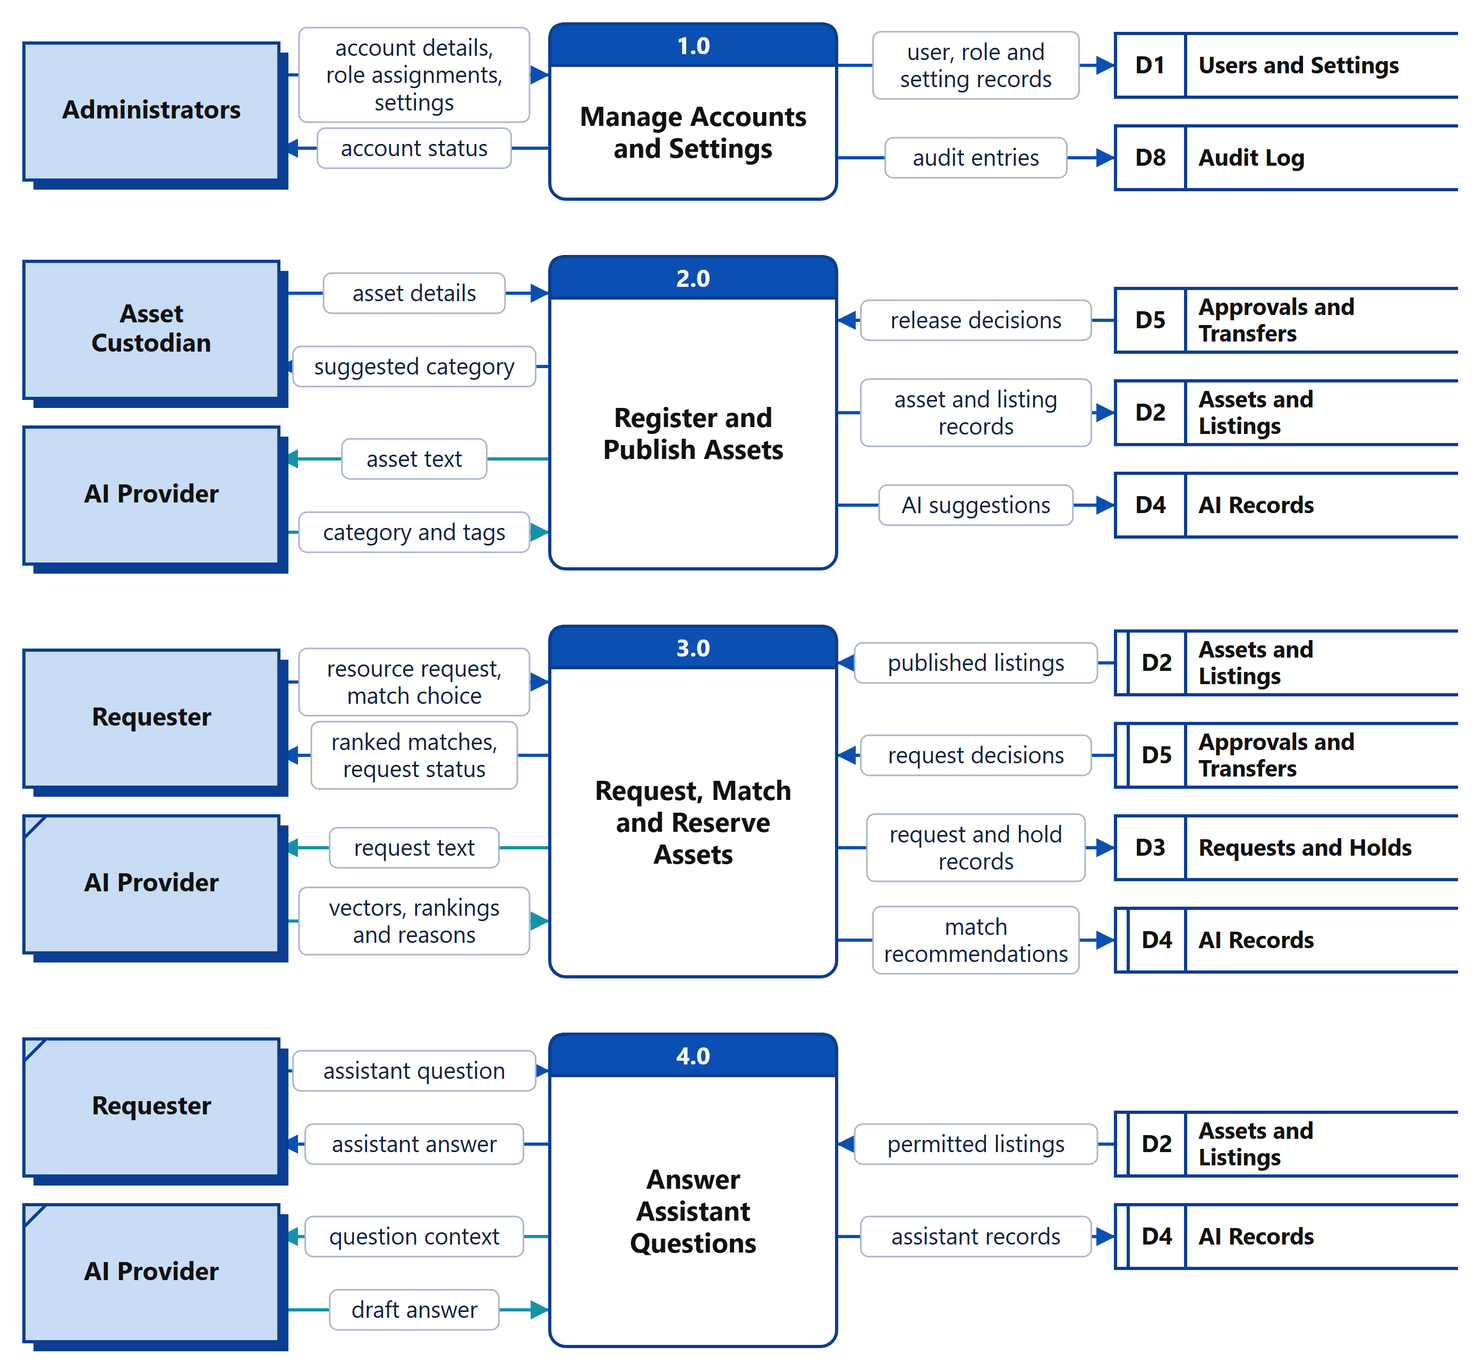
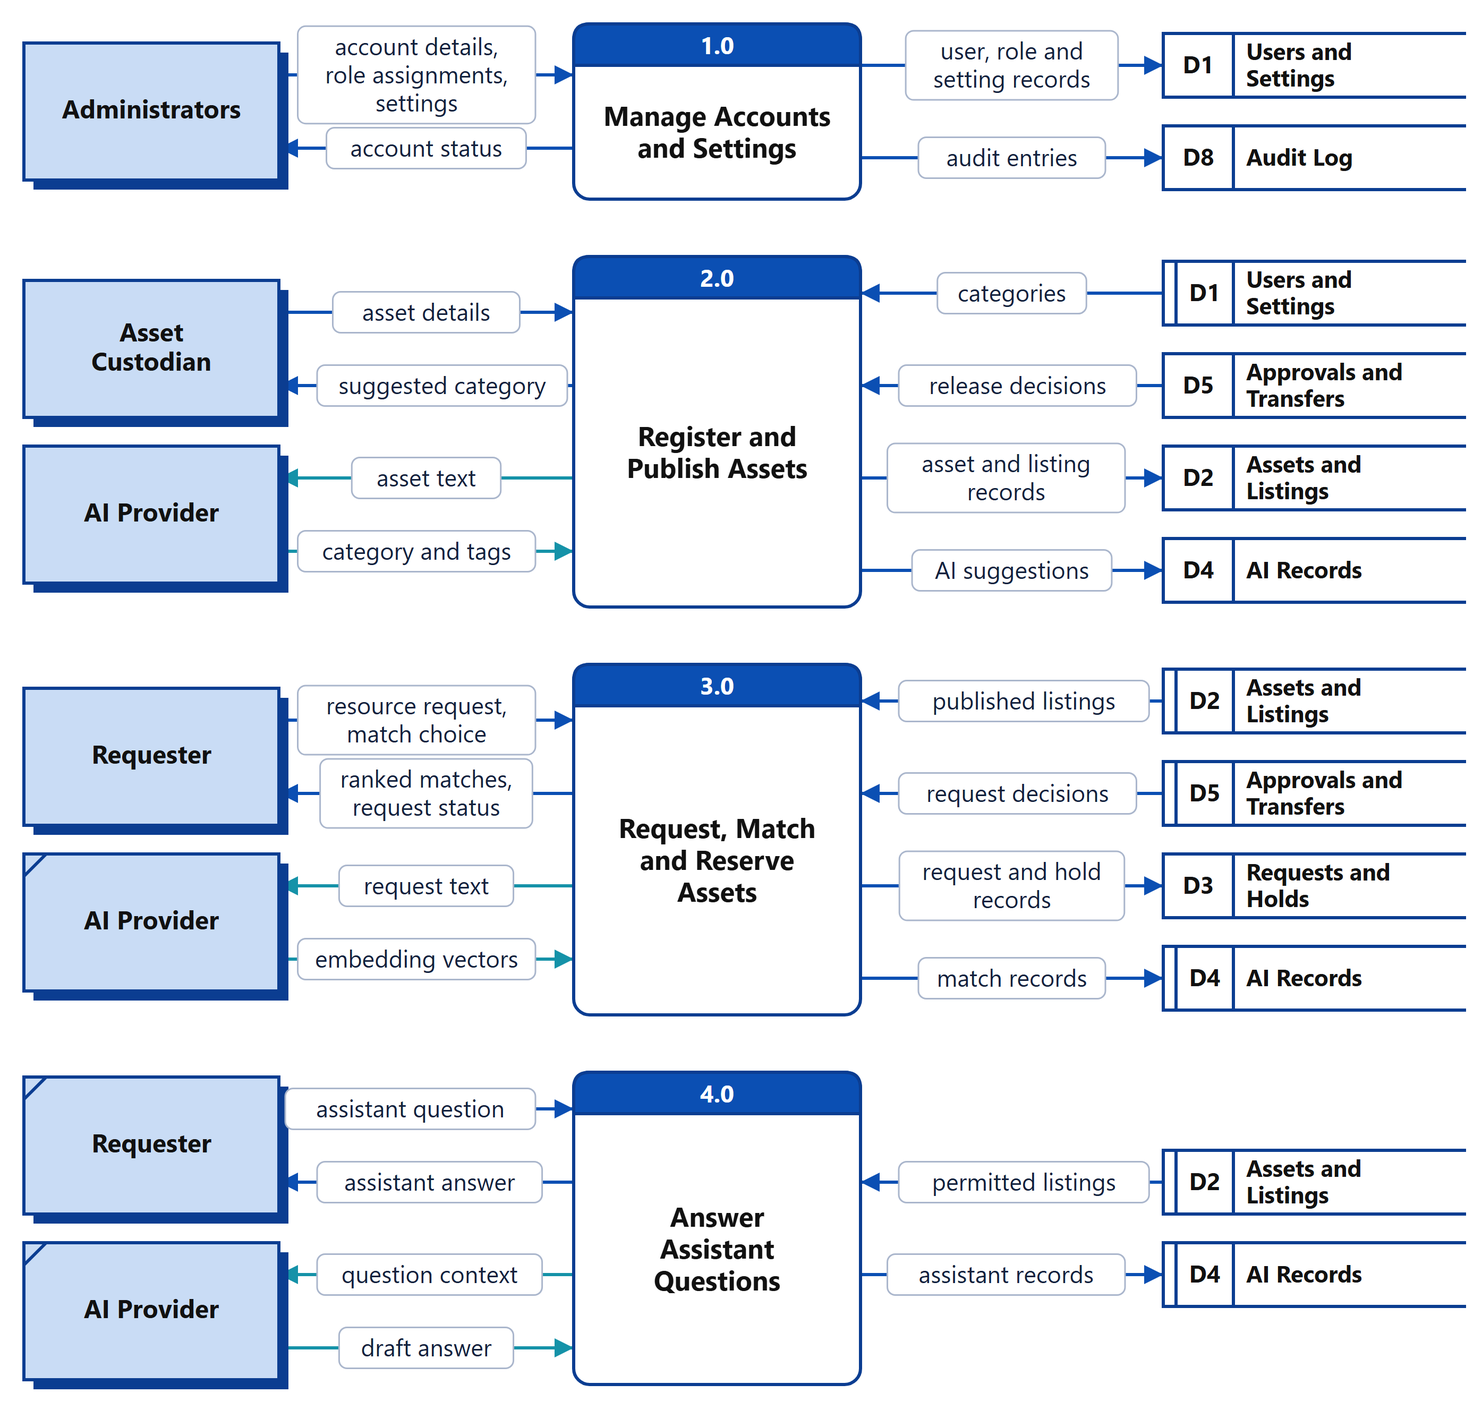
docs(phase45): keep DFD arrowheads visible and add the missing reads and writes (sections 1 and 2)

diff --git a/docs/phase45/diagrams/dfd.js b/docs/phase45/diagrams/dfd.js
@@ -34,12 +34,12 @@ function external(name, x, y, w, h, opts = {}) {
   s += `<rect x="${x}" y="${y}" width="${w}" height="${h}" fill="${FILL}" stroke="${DARK}" stroke-width="2"/>`;
   if (opts.dup) s += `<line x1="${x}" y1="${y + 14}" x2="${x + 14}" y2="${y}" stroke="${DARK}" stroke-width="2"/>`;
   const main = wrap(name, w - 18, size, true);
-  const sub = opts.sub ? wrap(opts.sub, w - 14, 13) : [];
-  const lhM = size * 1.15, lhS = 13 * 1.2;
+  const sub = opts.sub ? wrap(opts.sub, w - 14, 14) : [];
+  const lhM = size * 1.15, lhS = 14 * 1.2;
   const total = main.length * lhM + sub.length * lhS;
   let yy = y + h / 2 - total / 2 + size * 0.85;
   main.forEach((l) => { s += `<text x="${x + w / 2}" y="${yy}" text-anchor="middle" font-family="${FONT}" font-size="${size}" font-weight="700" fill="#111">${esc(l)}</text>`; yy += lhM; });
-  sub.forEach((l) => { s += `<text x="${x + w / 2}" y="${yy - 2}" text-anchor="middle" font-family="${FONT}" font-size="13" fill="#333">${esc(l)}</text>`; yy += lhS; });
+  sub.forEach((l) => { s += `<text x="${x + w / 2}" y="${yy - 2}" text-anchor="middle" font-family="${FONT}" font-size="14" fill="#333">${esc(l)}</text>`; yy += lhS; });
   return s;
 }
 
@@ -71,12 +71,31 @@ function arrowHead(p1, p2, color) {
   return `<path d="M${p2.x} ${p2.y} L${bx + W * Math.sin(a)} ${by - W * Math.cos(a)} L${bx - W * Math.sin(a)} ${by + W * Math.cos(a)} Z" fill="${color}"/>`;
 }
 
-function pill(label, cx, cy, maxW, size) {
+function pillSize(label, maxW, size) {
   const lines = wrap(label, maxW - 12, size);
   const w = Math.min(maxW, Math.max(...lines.map((l) => l.length)) * size * 0.53 + 14);
-  const h = lines.length * size * 1.18 + 8;
+  return { lines, w, h: lines.length * size * 1.18 + 8 };
+}
+function pill(label, cx, cy, maxW, size) {
+  const { lines, w, h } = pillSize(label, maxW, size);
   let s = `<rect x="${cx - w / 2}" y="${cy - h / 2}" width="${w}" height="${h}" rx="5" fill="#fff" stroke="#aab6cc" stroke-width="1"/>`;
   return s + textBlock(lines, cx, cy, size, { color: "#13213d" });
+}
+
+// A label on the last segment of a flow is moved back from the tip so the arrowhead always shows.
+const CLEAR = 24;
+function clearOfArrow(points, at, maxW, size, label) {
+  const a = points[points.length - 2], b = points[points.length - 1];
+  const horiz = a.y === b.y;
+  const along = horiz ? at.x : at.y, start = horiz ? a.x : a.y, tip = horiz ? b.x : b.y;
+  const across = horiz ? at.y - a.y : at.x - a.x;
+  if (Math.abs(across) > 1 || (along - start) * (along - tip) > 0) return { at, maxW };
+  const dir = Math.sign(tip - start), room = Math.abs(tip - start) - CLEAR - 4;
+  if (horiz) maxW = Math.min(maxW, room);
+  const half = (horiz ? pillSize(label, maxW, size).w : pillSize(label, maxW, size).h) / 2;
+  const limit = tip - dir * (CLEAR + half);
+  const moved = dir * (along - limit) > 0 ? limit : along;
+  return { at: horiz ? { x: moved, y: at.y } : { x: at.x, y: moved }, maxW };
 }
 
 // A diagram collects lines, boxes and labels separately so labels are always drawn on top.
@@ -94,7 +113,9 @@ class Diagram {
         const t = opts.t === undefined ? 0.5 : opts.t;
         at = { x: points[0].x + (points[1].x - points[0].x) * t, y: points[0].y + (points[1].y - points[0].y) * t };
       }
-      this.labels += pill(label, at.x, at.y, opts.labelW || 160, opts.size || 14.5);
+      const size = opts.size || 15;
+      const fit = clearOfArrow(points, at, opts.labelW || 160, size, label);
+      this.labels += pill(label, fit.at.x, fit.at.y, fit.maxW, size);
     }
   }
   add(svg) { this.boxes += svg; }
@@ -116,11 +137,11 @@ const D = {
 {
   const g = new Diagram();
   const P = { x: 385, y: 30, w: 165, h: 480 };
-  const L = { x: 15, w: 180 }, Rt = { x: 745, w: 180 };
+  const L = { x: 15, w: 165 }, Rt = { x: 755, w: 165 };
   const slot = 72, gapY = 22;
   const left = [
     { name: "Requester", flows: [["in", "resource request, match choice, assistant question"], ["out", "ranked matches, request status, assistant answer"]] },
-    { name: "Asset Custodian", flows: [["in", "asset details, handover records, defect and end-of-life reports"], ["out", "suggested category, transfer tasks, asset history"]] },
+    { name: "Asset Custodian", sub: "or department representative", flows: [["in", "asset details, handover records, defect and end-of-life reports"], ["out", "suggested category, transfer tasks, asset history"]] },
     { name: "Maintenance Staff", flows: [["in", "inspection and repair records"], ["out", "work orders"]] },
   ];
   const right = [
@@ -153,7 +174,7 @@ const D = {
 // ---------- Level 1 rows ----------
 // Each row: external entities on the left, the process in the middle, data stores on the right.
 // Every arrow is a straight horizontal line, so rows never cross each other.
-const ROW = { extX: 15, extW: 160, procX: 345, procW: 180, storeX: 700, storeW: 215, slot: 46 };
+const ROW = { extX: 15, extW: 160, procX: 360, procW: 180, storeX: 730, storeW: 190, slot: 46 };
 
 function drawRow(g, row, y0, seen) {
   const gap = 12;
@@ -211,10 +232,10 @@ level1("dfd-level1-a.svg", [
     right: [st("D1", [Wr("user, role and setting records")]), st("D8", [Wr("audit entries")])] },
   { num: "2.0", name: "Register and Publish Assets",
     left: [{ name: "Asset Custodian", flows: [In("asset details"), Out("suggested category")] }, { name: AI, flows: [Out("asset text"), In("category and tags")] }],
-    right: [st("D5", [R("release decisions")]), st("D2", [Wr("asset and listing records")]), st("D4", [Wr("AI suggestions")])] },
+    right: [st("D1", [R("categories")]), st("D5", [R("release decisions")]), st("D2", [Wr("asset and listing records")]), st("D4", [Wr("AI suggestions")])] },
   { num: "3.0", name: "Request, Match and Reserve Assets",
-    left: [{ name: "Requester", flows: [In("resource request, match choice"), Out("ranked matches, request status")] }, { name: AI, flows: [Out("request text"), In("vectors, rankings and reasons")] }],
-    right: [st("D2", [R("published listings")]), st("D5", [R("request decisions")]), st("D3", [Wr("request and hold records")]), st("D4", [Wr("match recommendations")])] },
+    left: [{ name: "Requester", flows: [In("resource request, match choice"), Out("ranked matches, request status")] }, { name: AI, flows: [Out("request text"), In("embedding vectors")] }],
+    right: [st("D2", [R("published listings")]), st("D5", [R("request decisions")]), st("D3", [Wr("request and hold records")]), st("D4", [Wr("match records")])] },
   { num: "4.0", name: "Answer Assistant Questions",
     left: [{ name: "Requester", flows: [In("assistant question"), Out("assistant answer")] }, { name: AI, flows: [Out("question context"), In("draft answer")] }],
     right: [st("D2", [R("permitted listings")]), st("D4", [Wr("assistant records")])] },
@@ -224,46 +245,47 @@ level1("dfd-level1-b.svg", [
   { num: "5.0", name: "Approve and Transfer Assets",
     left: [{ name: "Approvers", flows: [In("approval decisions"), Out("approval tasks")] }, { name: "Sustainability Officer", flows: [In("end-of-life reviews"), Out("review tasks")] },
            { name: "Asset Custodian", flows: [In("handover records"), Out("transfer tasks")] }],
-    right: [st("D1", [R("approvers and roles")]), st("D3", [R("holds and requests to approve")]), st("D6", [R("repairs and end-of-life to approve")]),
-            st("D5", [Wr("approval and transfer records")]), st("D2", [Wr("new owner and location")]), st("D7", [Wr("transfer impacts")]), st("D8", [Wr("audit entries")])] },
+    right: [st("D1", [R("roles and emission factors")]), st("D3", [R("holds and requests"), Wr("hold and request states")]), st("D6", [R("end-of-life and repair cases")]),
+            st("D5", [Wr("approval and transfer records")]), st("D2", [R("listings to approve"), Wr("new owner and location")]), st("D7", [Wr("transfer impacts")]), st("D8", [Wr("audit entries")])] },
   { num: "6.0", name: "Maintain and Retire Assets",
     left: [{ name: "Asset Custodian", flows: [In("defect and end-of-life reports")] }, { name: "Maintenance Staff", flows: [In("inspection and repair records"), Out("work orders")] },
            { name: AI, flows: [Out("asset condition text"), In("action advice")] }],
-    right: [st("D2", [R("asset details"), Wr("condition and state")]), st("D5", [R("spending and end-of-life decisions")]),
-            st("D6", [Wr("maintenance and end-of-life records")]), st("D7", [Wr("repair and end-of-life impacts")])] },
+    right: [st("D1", [R("emission factors")]), st("D2", [R("asset details"), Wr("condition and state")]), st("D5", [R("approval decisions")]),
+            st("D6", [Wr("maintenance records")]), st("D4", [Wr("AI suggestions")]), st("D7", [Wr("impact records")])] },
   { num: "7.0", name: "Report Impact and History",
     left: [{ name: "Administrators", flows: [In("report requests"), Out("operational and audit reports")] }, { name: "Approvers", flows: [Out("finance and reuse reports")] },
            { name: "Sustainability Officer", flows: [Out("impact report")] }, { name: "Asset Custodian", flows: [Out("asset history")] },
            { name: AI, flows: [Out("report figures"), In("draft report text")] }],
-    right: [st("D4", [R("AI records")]), st("D5", [R("transfer records")]), st("D6", [R("maintenance records")]), st("D7", [R("impact records")]), st("D8", [R("audit entries")])] },
+    right: [st("D2", [R("asset and listing records")]), st("D3", [R("request and hold records")]), st("D4", [R("AI records"), Wr("AI suggestions")]), st("D5", [R("transfer records")]), st("D6", [R("maintenance records")]), st("D7", [R("impact records")]), st("D8", [R("audit entries")])] },
 ]);
 
 // ---------- Figure 2.3: Level 2 of 3.0 ----------
 {
   const g = new Diagram();
   g.under += `<rect x="215" y="112" width="485" height="660" rx="14" fill="#f4f8fe" stroke="${BLUE}" stroke-width="2" stroke-dasharray="7 5"/>`;
-  g.under += `<text x="232" y="138" font-family="${FONT}" font-size="15" font-weight="700" fill="${DARK}">Level 2 of 3.0 Request, Match and Reserve Assets</text>`;
-  const p1 = { x: 265, y: 160, w: 175, h: 96 }, p2 = { x: 255, y: 375, w: 175, h: 112 };
+  g.under += `<text x="232" y="138" font-family="${FONT}" font-size="15" font-weight="700" fill="${DARK}">Level 2 of process 3.0</text>`;
+  const p1 = { x: 285, y: 160, w: 175, h: 96 }, p2 = { x: 285, y: 375, w: 175, h: 112 };
   const p3 = { x: 505, y: 375, w: 175, h: 112 }, p4 = { x: 505, y: 620, w: 175, h: 100 };
   // 3.1 Record Request
-  g.flow([{ x: 175, y: 185 }, { x: 265, y: 185 }], "resource request", { at: { x: 220, y: 185 }, labelW: 90 });
-  g.flow([{ x: 265, y: 232 }, { x: 175, y: 232 }], "request status", { at: { x: 220, y: 232 }, labelW: 90 });
-  g.flow([{ x: 290, y: 256 }, { x: 290, y: 318 }, { x: 175, y: 318 }], "request record", { at: { x: 232, y: 296 }, labelW: 120 });
+  g.flow([{ x: 175, y: 185 }, { x: 285, y: 185 }], "resource request", { at: { x: 230, y: 185 }, labelW: 90 });
+  g.flow([{ x: 285, y: 232 }, { x: 175, y: 232 }], "request status", { at: { x: 230, y: 232 }, labelW: 90 });
+  g.flow([{ x: 305, y: 256 }, { x: 305, y: 318 }, { x: 175, y: 318 }], "request record", { at: { x: 240, y: 318 }, labelW: 120 });
   g.flow([{ x: 380, y: 256 }, { x: 380, y: 375 }], "request details", { at: { x: 380, y: 318 }, labelW: 120 });
   // 3.2 Check Eligibility
-  g.flow([{ x: 175, y: 405 }, { x: 255, y: 405 }], "published listings", { at: { x: 214, y: 405 }, labelW: 90 });
-  g.flow([{ x: 175, y: 462 }, { x: 255, y: 462 }], "request decisions", { at: { x: 214, y: 462 }, labelW: 90 });
+  g.flow([{ x: 175, y: 405 }, { x: 285, y: 405 }], "published listings", { at: { x: 230, y: 405 }, labelW: 90 });
+  g.flow([{ x: 175, y: 462 }, { x: 285, y: 462 }], "request decisions", { at: { x: 230, y: 462 }, labelW: 90 });
   g.flow([{ x: 400, y: 487 }, { x: 400, y: 545 }, { x: 540, y: 545 }, { x: 540, y: 487 }], "eligible listings, request criteria", { at: { x: 470, y: 545 }, labelW: 150 });
   // 3.3 Rank and Explain Matches
   g.flow([{ x: 555, y: 375 }, { x: 555, y: 72 }], "request text", { ai: true, at: { x: 555, y: 230 }, labelW: 95 });
-  g.flow([{ x: 635, y: 72 }, { x: 635, y: 375 }], "vectors, rankings and reasons", { ai: true, at: { x: 635, y: 300 }, labelW: 115 });
-  g.flow([{ x: 680, y: 405 }, { x: 735, y: 405 }], "match recommendations", { at: { x: 815, y: 350 }, labelW: 165 });
-  g.flow([{ x: 680, y: 462 }, { x: 800, y: 462 }, { x: 800, y: 515 }], "ranked matches", { at: { x: 815, y: 490 }, labelW: 110 });
+  g.flow([{ x: 635, y: 72 }, { x: 635, y: 375 }], "embedding vectors", { ai: true, at: { x: 635, y: 300 }, labelW: 100 });
+  g.flow([{ x: 680, y: 405 }, { x: 735, y: 405 }], "match recommendations", { at: { x: 725, y: 356 }, labelW: 145, size: 14 });
+  g.flow([{ x: 680, y: 462 }, { x: 800, y: 462 }, { x: 800, y: 515 }], "ranked matches", { at: { x: 740, y: 462 }, labelW: 90 });
   g.flow([{ x: 620, y: 487 }, { x: 620, y: 620 }], "ranked list", { at: { x: 620, y: 575 }, labelW: 90 });
   // 3.4 Record Choice and Hold
   g.flow([{ x: 800, y: 605 }, { x: 800, y: 650 }, { x: 680, y: 650 }], "match choice", { at: { x: 740, y: 650 }, labelW: 100 });
   g.flow([{ x: 680, y: 700 }, { x: 790, y: 700 }, { x: 790, y: 762 }], "hold record", { at: { x: 790, y: 730 }, labelW: 90 });
   g.flow([{ x: 505, y: 690 }, { x: 175, y: 690 }], "request status", { at: { x: 340, y: 690 }, labelW: 120 });
+  g.flow([{ x: 590, y: 720 }, { x: 590, y: 800 }], "match response", { at: { x: 590, y: 752 }, labelW: 150 });
   // boxes
   g.add(external("Requester", 15, 165, 160, 88));
   g.add(store("D3", D.D3, 15, 293, 160, 50, { size: 13.5 }));
@@ -274,9 +296,10 @@ level1("dfd-level1-b.svg", [
   g.add(store("D4", D.D4, 735, 383, 185, 44));
   g.add(external("Requester", 735, 515, 180, 90, { dup: true }));
   g.add(store("D3", D.D3, 715, 762, 205, 44, { dup: true }));
+  g.add(store("D4", D.D4, 470, 800, 205, 44, { dup: true }));
   g.add(processBox("3.1", "Record Request", p1.x, p1.y, p1.w, p1.h));
   g.add(processBox("3.2", "Check Eligibility", p2.x, p2.y, p2.w, p2.h));
   g.add(processBox("3.3", "Rank and Explain Matches", p3.x, p3.y, p3.w, p3.h));
   g.add(processBox("3.4", "Record Choice and Hold", p4.x, p4.y, p4.w, p4.h));
-  g.write("dfd-level2-3.svg", 930, 820);
+  g.write("dfd-level2-3.svg", 930, 860);
 }

diff --git a/docs/phase45/sections/02-sultan-data-flow-diagrams.md b/docs/phase45/sections/02-sultan-data-flow-diagrams.md
@@ -26,16 +26,16 @@ Level 1 splits process 0 into seven processes, one for each main job of the syst
 <!-- widths: 2300,3060,1900,2100 -->
 | Store | Entities (section 8) | Written by | Read by |
 |---|---|---|---|
-| D1 Users and Settings | Department, User, Role, UserRole, Category | 1.0 | 5.0 |
-| D2 Assets and Listings | Asset, Listing, Attachment | 2.0, 5.0, 6.0 | 3.0, 4.0, 6.0 |
-| D3 Requests and Holds | ResourceRequest, Reservation | 3.0 | 5.0 |
-| D4 AI Records | MatchRecommendation, AiSuggestion, ModelVersion | 2.0, 3.0, 4.0 | 7.0 |
+| D1 Users and Settings | Department, User, Role, UserRole, Category, Notification | 1.0; Notification records from every process that sends a task | 2.0, 5.0, 6.0 |
+| D2 Assets and Listings | Asset, Listing, Attachment | 2.0, 5.0, 6.0 | 3.0, 4.0, 5.0, 6.0, 7.0 |
+| D3 Requests and Holds | ResourceRequest, Reservation | 3.0, 5.0 | 5.0, 7.0 |
+| D4 AI Records | MatchRecommendation, AiSuggestion, ModelVersion | 2.0, 3.0, 4.0, 6.0, 7.0 | 7.0 |
 | D5 Approvals and Transfers | Approval, Transfer | 5.0 | 2.0, 3.0, 6.0, 7.0 |
 | D6 Maintenance Records | Inspection, MaintenanceRecord, EndOfLifeAction | 6.0 | 5.0, 7.0 |
 | D7 Sustainability Impacts | SustainabilityImpact | 5.0, 6.0 | 7.0 |
 | D8 Audit Log | AuditLog | 1.0, 5.0 and every other process | 7.0 |
 
-Every process writes audit entries to D8 (FR-18.1). To keep the figures readable, we draw this flow for 1.0 and 5.0 only. The tasks sent to users, such as approval tasks and work orders, are the notifications in FR-16, and the Notification entity keeps them for each user.
+Every process writes audit entries to D8 (FR-18.1). To keep the figures readable, we draw this flow for 1.0 and 5.0 only. Two more flows are left out for the same reason. Every process checks the signed-in user's roles in D1 before it acts (FR-02.2), and every process that sends a task, such as an approval task or a work order, writes it to D1 as a Notification record for that user (FR-16).
 
 ## 2.2 Level 2 of 3.0 Request, Match and Reserve Assets
 
@@ -45,8 +45,8 @@ We opened 3.0 because it holds the main AI call and decides which items a reques
 
 - **3.1 Record Request** saves the request and gives it a unique ID (FR-07.9).
 - **3.2 Check Eligibility** keeps only listings that pass the classic rules for access, quantity, condition, compatibility and date (BR-14, AI-03.1), and only for requests the department has approved (BR-03).
-- **3.3 Rank and Explain Matches** sends the request text to the AI Provider, scores each eligible listing with the weights in SRS Table 4.1, and stores each recommendation with its confidence and model version (AI-04, AI-05, AI-12). If the AI does not answer in time, 3.3 returns the eligible listings in classic order instead (AI-13).
-- **3.4 Record Choice and Hold** records the chosen item, and the reason when the requester does not pick the top match, then creates the hold (FR-09, AI-05.2).
+- **3.3 Rank and Explain Matches** sends the request text to the AI Provider, scores each eligible listing with the weights in SRS Table 4.1, and stores each recommendation with its model version and its confidence, which is "unavailable" with the current embedding model (AI-04, AI-05, AI-12). If the AI does not answer in time, 3.3 returns the eligible listings in classic order instead (AI-13).
+- **3.4 Record Choice and Hold** records the chosen item in D4, with the reason when the requester does not pick the top match, then creates the hold in D3 (FR-09, AI-05.2).
 
 The flows that cross the dashed line in Figure 2.3 are exactly the eight flows of 3.0 on Level 1, as Table 2.4 shows.
 
@@ -72,7 +72,7 @@ Table 2.3 shows that every flow on the context diagram appears on Level 1 with t
 | 11 | account details, role assignments, settings, report requests | Administrators | in | 1.0, 7.0 | account details, role assignments, settings (1.0); report requests (7.0) |
 | 12 | account status, operational and audit reports | Administrators | out | 1.0, 7.0 | account status (1.0); operational and audit reports (7.0) |
 | 13 | approved text fields | AI Provider | out | 2.0, 3.0, 4.0, 6.0, 7.0 | asset text (2.0); request text (3.0); question context (4.0); asset condition text (6.0); report figures (7.0) |
-| 14 | AI output | AI Provider | in | 2.0, 3.0, 4.0, 6.0, 7.0 | category and tags (2.0); vectors, rankings and reasons (3.0); draft answer (4.0); action advice (6.0); draft report text (7.0) |
+| 14 | AI output | AI Provider | in | 2.0, 3.0, 4.0, 6.0, 7.0 | category and tags (2.0); embedding vectors (3.0); draft answer (4.0); action advice (6.0); draft report text (7.0) |
 
 All 14 context flows match. Level 1 adds no new flows to or from an external entity.
 
@@ -84,8 +84,8 @@ All 14 context flows match. Level 1 adds no new flows to or from an external ent
 | resource request, match choice | from Requester | 3.1 (resource request); 3.4 (match choice) |
 | ranked matches, request status | to Requester | 3.3 (ranked matches); 3.1 and 3.4 (request status) |
 | request text | to AI Provider | 3.3 |
-| vectors, rankings and reasons | from AI Provider | 3.3 |
+| embedding vectors | from AI Provider | 3.3 |
 | published listings | from D2 | 3.2 |
 | request decisions | from D5 | 3.2 |
 | request and hold records | to D3 | 3.1 (request record); 3.4 (hold record) |
-| match recommendations | to D4 | 3.3 |
+| match records | to D4 | 3.3 (match recommendations); 3.4 (match response) |

diff --git a/docs/phase45/sections/01-sultan-context-diagram.md b/docs/phase45/sections/01-sultan-context-diagram.md
@@ -14,9 +14,9 @@ Each flow on the context diagram groups several smaller flows. Section 2 shows w
 | External entity | Roles from the SRS | Sends to the system | Gets from the system |
 |---|---|---|---|
 | Requester | Requester | Resource requests, match choices and assistant questions (UC-04 to UC-07, UC-12) | Ranked matches, request status and assistant answers |
-| Asset Custodian | Asset custodian | Asset details, handover records, and defect and end-of-life reports (UC-02, UC-03, UC-09 to UC-11) | Suggested categories, transfer tasks and asset history (UC-14) |
+| Asset Custodian | Asset custodian, and a department representative doing the same tasks | Asset details, handover records, and defect and end-of-life reports (UC-02, UC-03, UC-09 to UC-11) | Suggested categories, transfer tasks and asset history (UC-14) |
 | Maintenance Staff | Maintenance staff | Inspection and repair records (UC-10) | Work orders |
 | Approvers | Department representative, finance officer, procurement officer | Approval decisions (UC-08, Table 5.2 of the SRS) | Approval tasks, and finance and reuse reports |
 | Sustainability Officer | Sustainability officer | End-of-life reviews (UC-11) | Review tasks and the impact report (UC-13) |
 | Administrators | Business administrator, system administrator | Account details, role assignments, settings and report requests (UC-01, UC-13) | Account status, and operational and audit reports |
-| AI Provider | None (outside service) | AI output: suggestions, vectors, rankings with reasons and draft text | Approved text fields only (SI-02, NFR-04) |
+| AI Provider | None (outside service) | AI output: suggestions, embedding vectors and draft text | Approved text fields only (SI-02, NFR-04) |
